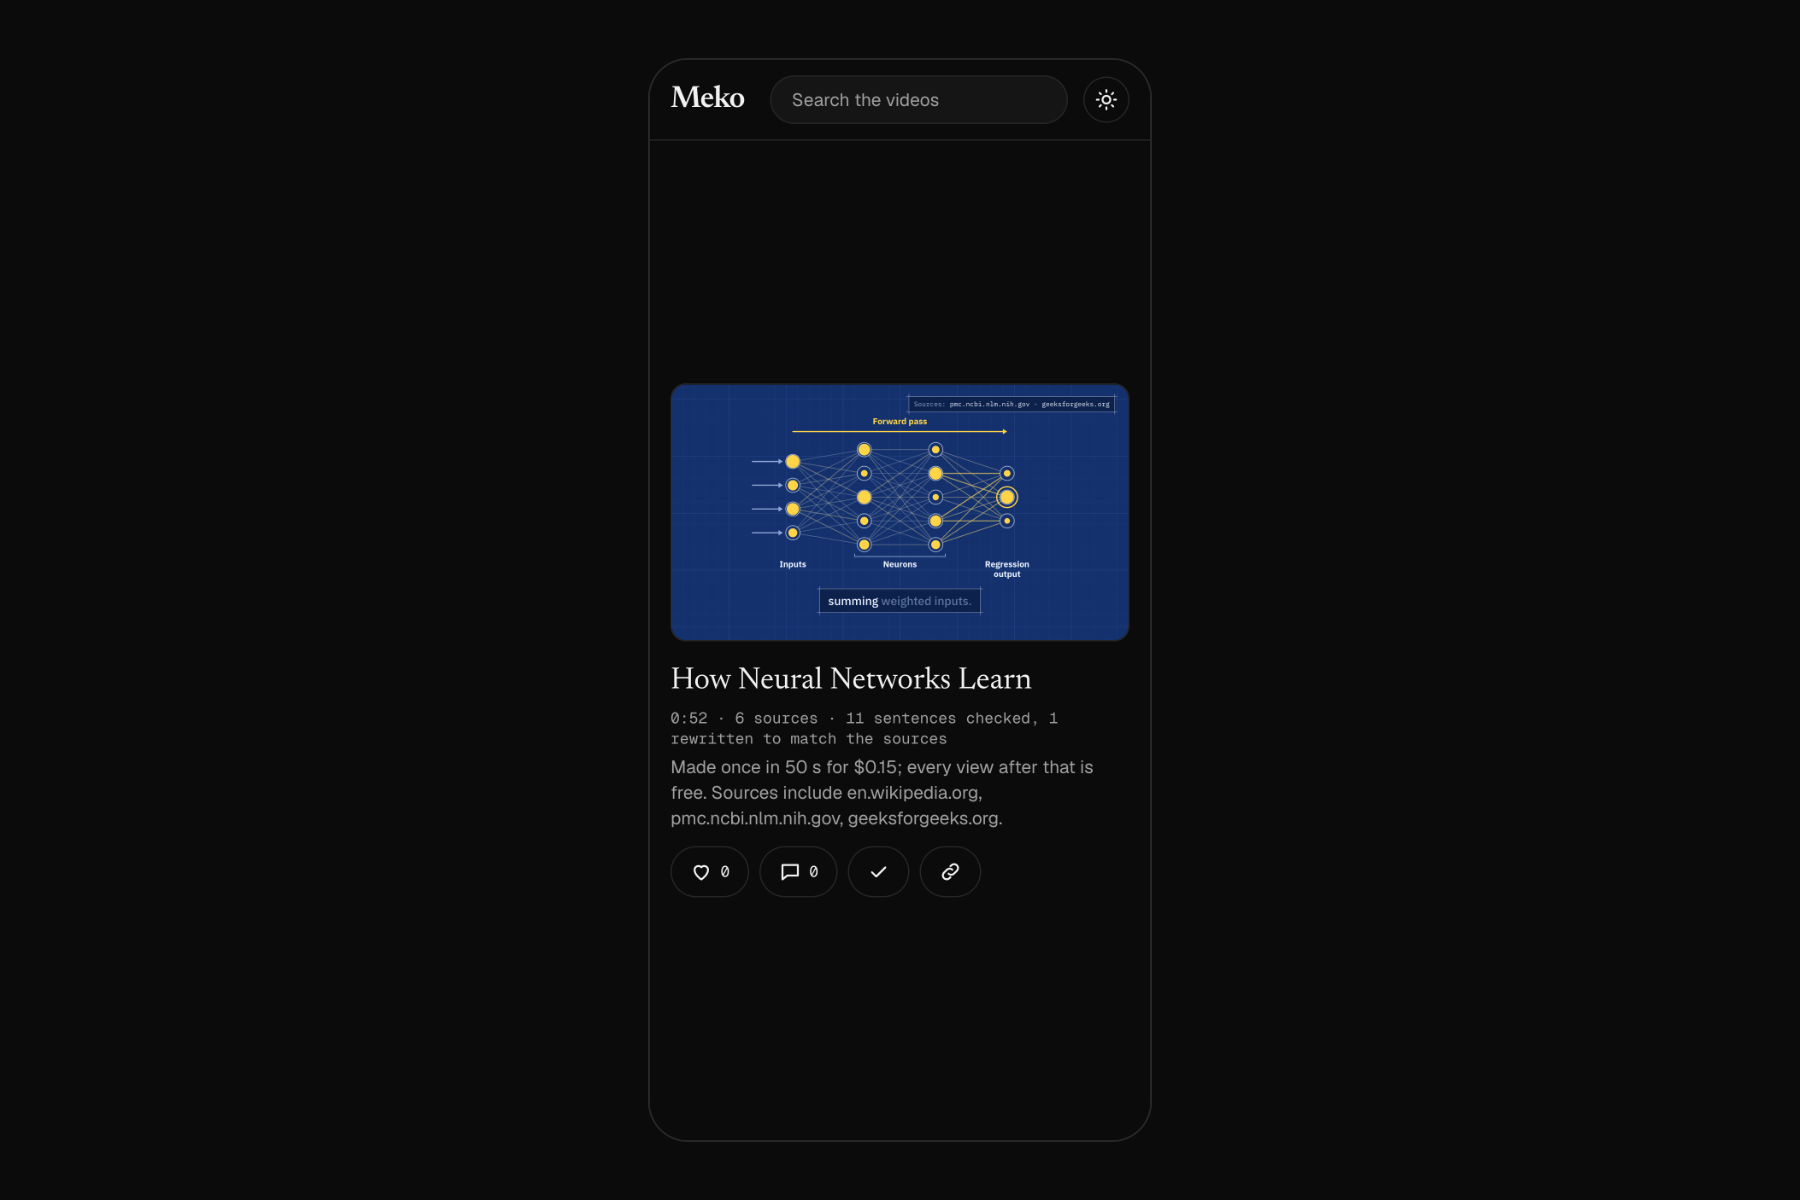
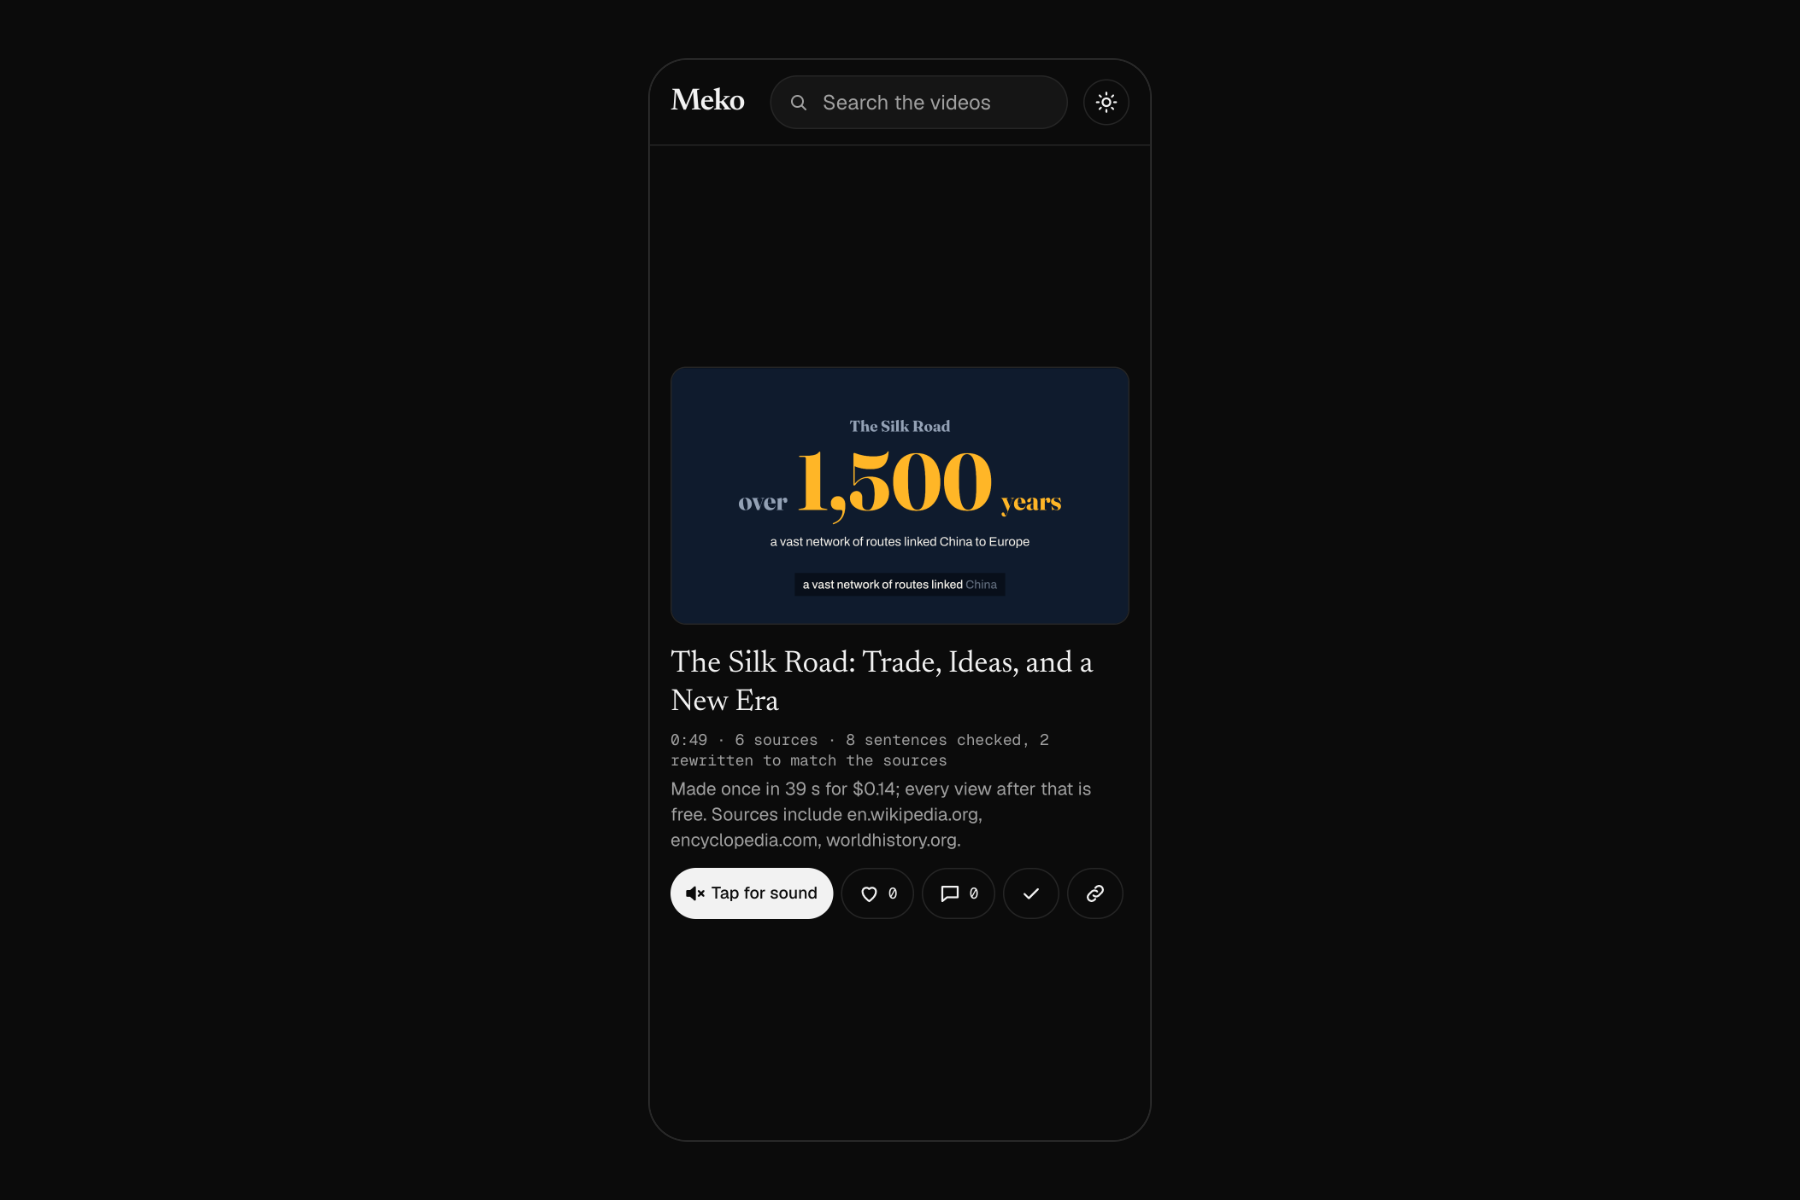
Show the feed playing by itself in gallery image 5

diff --git a/docs/submission.md b/docs/submission.md
@@ -145,7 +145,7 @@ hand. Never put the code in the repository.
 
 ## Gallery
 
-Five screenshots of the live site, taken with headless Chrome on Oct 21, 2026, 1800 x 1200 PNG. Upload them in this
+Five screenshots of the live site, taken with headless Chrome on Oct 21, 2026 (gallery-5 again on Oct 23, after the feed began to play by itself), 1800 x 1200 PNG. Upload them in this
 order with these captions; Devpost allows 140 characters per caption. The project's thumbnail is `gallery-2.png`.
 
 1. `docs/images/gallery-1.png`: The start page. Type a topic, pick an audience and a length, and choose Make video.
